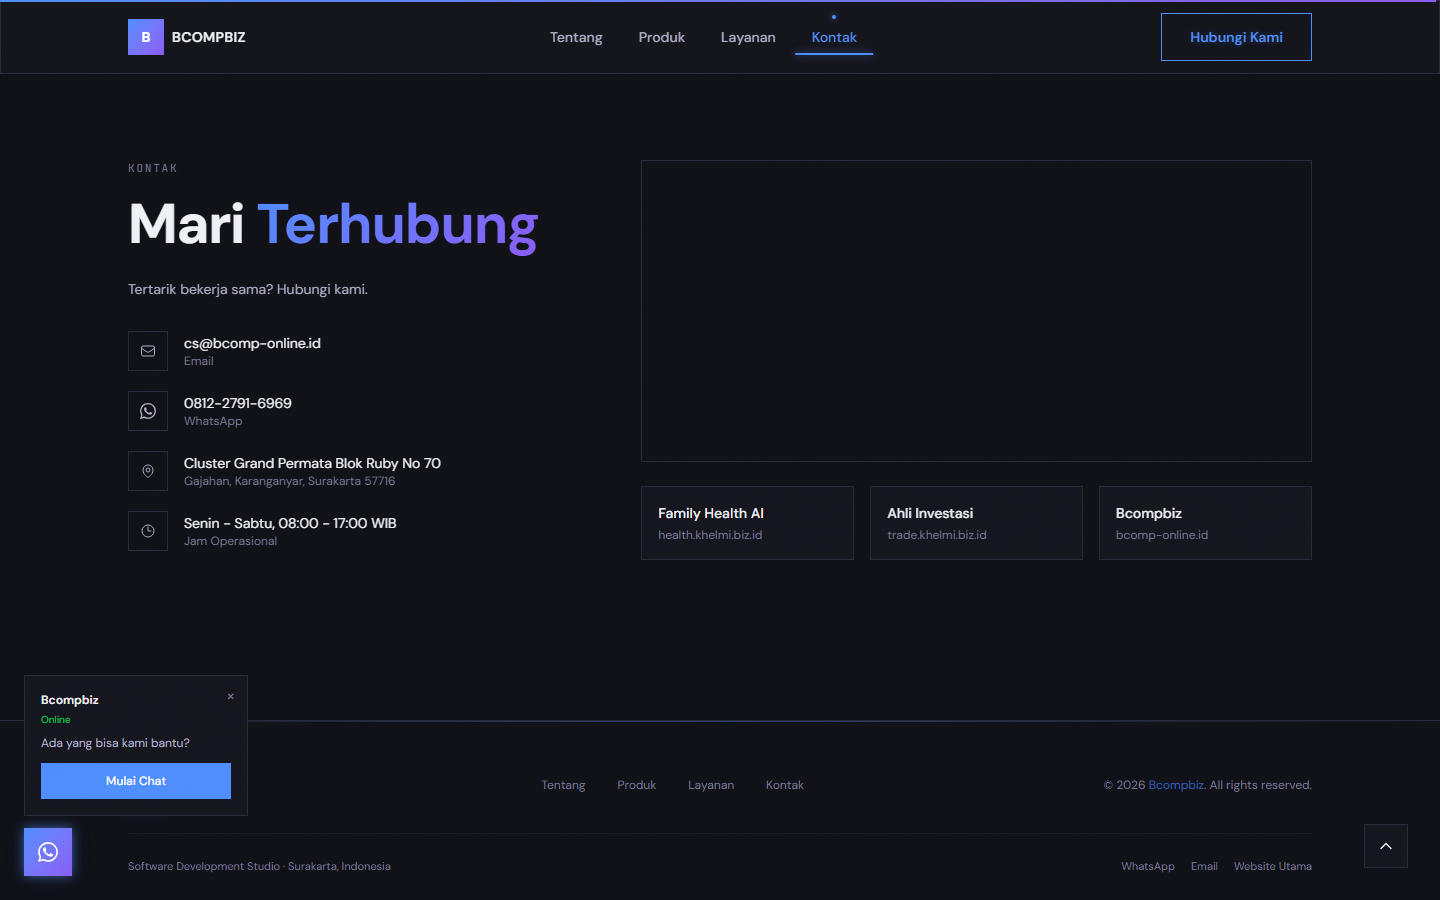
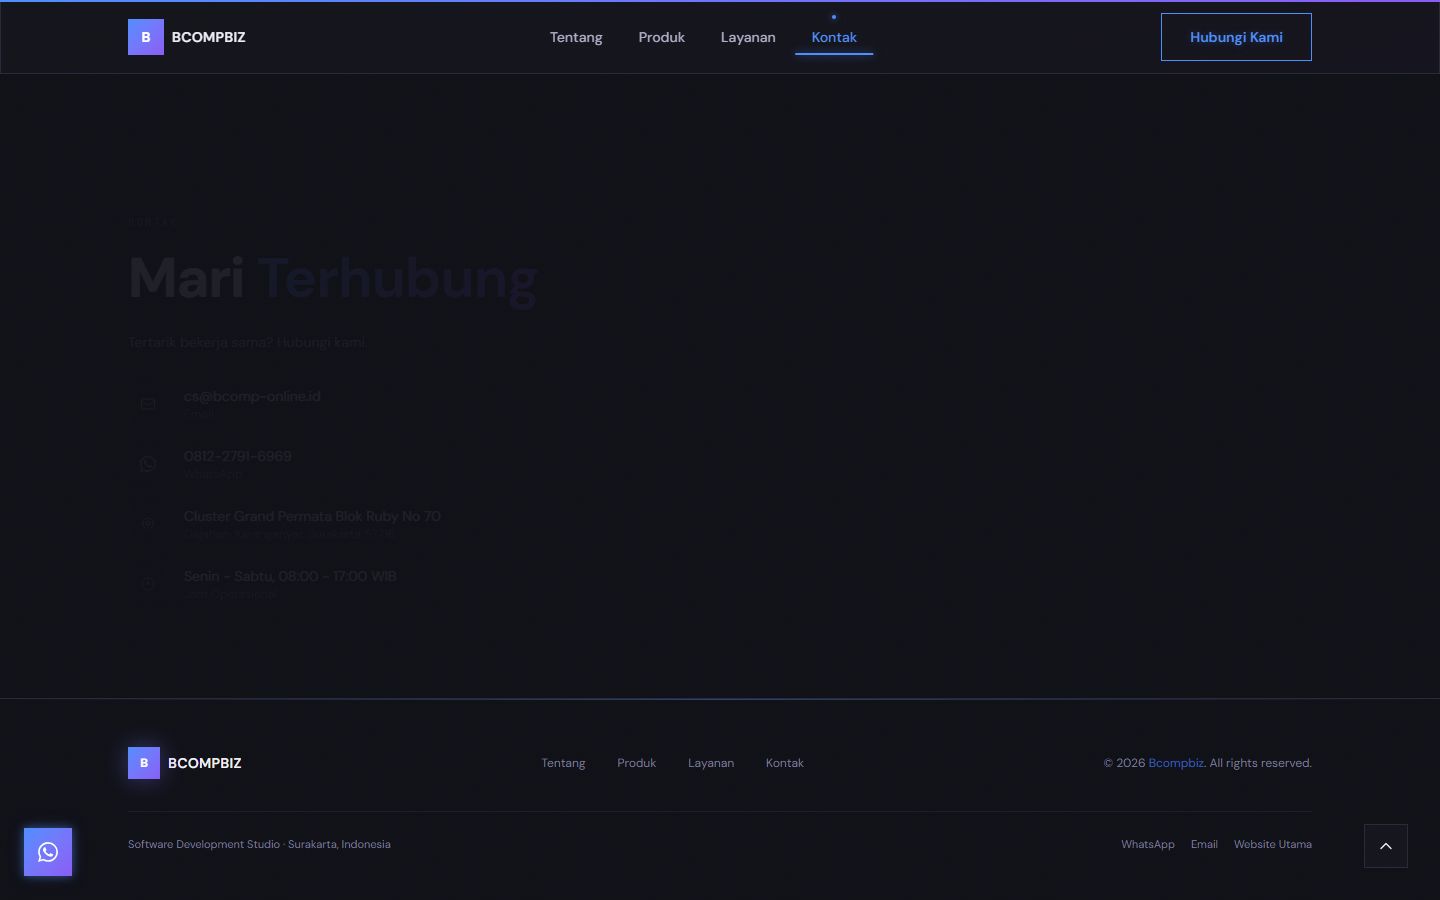
fix: animations, background visibility, services alignment
- AnimateOnScroll: fix IntersectionObserver (threshold 0.01, rootMargin -10px)
- ScrollBackground: increase opacity (15% orbs, stronger gradient bars)
- Services: fix number alignment with w-8
- Add animated gradient bars (Microsoft-style)
- Add pulsing center glow

diff --git a/src/components/ScrollBackground.tsx b/src/components/ScrollBackground.tsx
@@ -15,126 +15,109 @@ export default function ScrollBackground() {
 
   return (
     <div className="fixed inset-0 pointer-events-none z-0 overflow-hidden">
-      {/* Moving neon orbs */}
+      {/* Large neon orb 1 - moves with scroll */}
       <div
-        className="absolute w-[500px] h-[500px] rounded-full blur-[120px]"
+        className="absolute rounded-full"
         style={{
-          background: `radial-gradient(circle, rgba(79,143,255,0.12) 0%, transparent 70%)`,
-          left: `${20 + Math.sin(scrollY * 0.003) * 20}%`,
-          top: `${15 + Math.cos(scrollY * 0.002) * 15}%`,
+          width: "600px",
+          height: "600px",
+          background: "radial-gradient(circle, rgba(79,143,255,0.15) 0%, rgba(79,143,255,0.05) 40%, transparent 70%)",
+          left: `${15 + Math.sin(scrollY * 0.002) * 20}%`,
+          top: `${10 + Math.cos(scrollY * 0.003) * 15}%`,
+          filter: "blur(80px)",
           transform: `scale(${1 + Math.sin(scrollY * 0.001) * 0.3})`,
         }}
       />
+
+      {/* Large neon orb 2 */}
       <div
-        className="absolute w-[400px] h-[400px] rounded-full blur-[100px]"
+        className="absolute rounded-full"
         style={{
-          background: `radial-gradient(circle, rgba(139,92,246,0.10) 0%, transparent 70%)`,
-          right: `${10 + Math.cos(scrollY * 0.003) * 15}%`,
-          top: `${40 + Math.sin(scrollY * 0.004) * 20}%`,
-          transform: `scale(${1 + Math.cos(scrollY * 0.002) * 0.2})`,
-        }}
-      />
-      <div
-        className="absolute w-[350px] h-[350px] rounded-full blur-[80px]"
-        style={{
-          background: `radial-gradient(circle, rgba(6,214,214,0.08) 0%, transparent 70%)`,
-          left: `${50 + Math.sin(scrollY * 0.005) * 25}%`,
-          bottom: `${10 + Math.cos(scrollY * 0.003) * 15}%`,
+          width: "500px",
+          height: "500px",
+          background: "radial-gradient(circle, rgba(139,92,246,0.12) 0%, rgba(139,92,246,0.04) 40%, transparent 70%)",
+          right: `${10 + Math.cos(scrollY * 0.002) * 15}%`,
+          top: `${35 + Math.sin(scrollY * 0.004) * 20}%`,
+          filter: "blur(70px)",
+          transform: `scale(${1 + Math.cos(scrollY * 0.002) * 0.25})`,
         }}
       />
 
-      {/* Animated thunder/lightning lines */}
-      <svg className="absolute inset-0 w-full h-full" style={{ opacity: 0.08 }}>
-        <defs>
-          <linearGradient id="thunder1" x1="0%" y1="0%" x2="100%" y2="100%">
-            <stop offset="0%" stopColor="#4f8fff" stopOpacity="0" />
-            <stop offset="50%" stopColor="#4f8fff" stopOpacity="1" />
-            <stop offset="100%" stopColor="#8b5cf6" stopOpacity="0" />
-          </linearGradient>
-          <linearGradient id="thunder2" x1="100%" y1="0%" x2="0%" y2="100%">
-            <stop offset="0%" stopColor="#8b5cf6" stopOpacity="0" />
-            <stop offset="50%" stopColor="#06d6d6" stopOpacity="1" />
-            <stop offset="100%" stopColor="#4f8fff" stopOpacity="0" />
-          </linearGradient>
-          <linearGradient id="thunder3" x1="0%" y1="100%" x2="100%" y2="0%">
-            <stop offset="0%" stopColor="#06d6d6" stopOpacity="0" />
-            <stop offset="50%" stopColor="#4f8fff" stopOpacity="1" />
-            <stop offset="100%" stopColor="#8b5cf6" stopOpacity="0" />
-          </linearGradient>
-        </defs>
-        
-        {/* Thunder line 1 */}
-        <path
-          d={`M -100 ${300 + Math.sin(scrollY * 0.005) * 50} Q ${400 + Math.sin(scrollY * 0.003) * 150} ${100 + scrollY * 0.02} ${1600} ${400 + Math.cos(scrollY * 0.004) * 80}`}
-          stroke="url(#thunder1)"
-          strokeWidth="1.5"
-          fill="none"
-          style={{ transform: `translateY(${-scrollY * 0.15}px)` }}
-        />
-        
-        {/* Thunder line 2 */}
-        <path
-          d={`M 1600 ${200 + Math.cos(scrollY * 0.004) * 60} Q ${800 + Math.cos(scrollY * 0.005) * 100} ${500 + scrollY * 0.015} -100 ${600 + Math.sin(scrollY * 0.003) * 40}`}
-          stroke="url(#thunder2)"
-          strokeWidth="1"
-          fill="none"
-          style={{ transform: `translateY(${-scrollY * 0.1}px)` }}
-        />
-        
-        {/* Thunder line 3 */}
-        <path
-          d={`M -100 ${700 + Math.sin(scrollY * 0.006) * 40} Q ${600 + Math.sin(scrollY * 0.004) * 120} ${300 + scrollY * 0.025} 1600 ${800 + Math.cos(scrollY * 0.005) * 60}`}
-          stroke="url(#thunder3)"
-          strokeWidth="0.8"
-          fill="none"
-          style={{ transform: `translateY(${-scrollY * 0.12}px)` }}
-        />
-      </svg>
+      {/* Cyan orb */}
+      <div
+        className="absolute rounded-full"
+        style={{
+          width: "400px",
+          height: "400px",
+          background: "radial-gradient(circle, rgba(6,214,214,0.10) 0%, transparent 60%)",
+          left: `${45 + Math.sin(scrollY * 0.003) * 25}%`,
+          bottom: `${15 + Math.cos(scrollY * 0.002) * 10}%`,
+          filter: "blur(60px)",
+        }}
+      />
 
-      {/* Grid that shifts */}
+      {/* Animated gradient bars (Microsoft-style) */}
+      <div
+        className="absolute left-0 right-0 h-[2px]"
+        style={{
+          top: `${20 + (scrollY * 0.1) % 60}%`,
+          background: "linear-gradient(90deg, transparent 0%, rgba(79,143,255,0.4) 30%, rgba(139,92,246,0.4) 70%, transparent 100%)",
+          opacity: 0.6,
+        }}
+      />
+      <div
+        className="absolute left-0 right-0 h-[1px]"
+        style={{
+          top: `${50 + (scrollY * 0.08) % 40}%`,
+          background: "linear-gradient(90deg, transparent 0%, rgba(6,214,214,0.3) 50%, transparent 100%)",
+          opacity: 0.5,
+        }}
+      />
+      <div
+        className="absolute left-0 right-0 h-[1px]"
+        style={{
+          top: `${75 + (scrollY * 0.12) % 25}%`,
+          background: "linear-gradient(90deg, transparent 0%, rgba(139,92,246,0.3) 40%, rgba(79,143,255,0.3) 60%, transparent 100%)",
+          opacity: 0.4,
+        }}
+      />
+
+      {/* Grid pattern that shifts */}
       <div
         className="absolute inset-0"
         style={{
-          opacity: 0.03,
+          opacity: 0.04,
           backgroundImage: `
-            linear-gradient(rgba(79,143,255,0.4) 1px, transparent 1px),
-            linear-gradient(90deg, rgba(79,143,255,0.4) 1px, transparent 1px)
+            linear-gradient(rgba(79,143,255,0.5) 1px, transparent 1px),
+            linear-gradient(90deg, rgba(79,143,255,0.5) 1px, transparent 1px)
           `,
-          backgroundSize: "80px 80px",
-          transform: `translateY(${scrollY * 0.03}px)`,
+          backgroundSize: "60px 60px",
+          transform: `translateY(${scrollY * 0.02}px)`,
         }}
       />
 
-      {/* Horizontal scan line */}
+      {/* Corner glow top-left */}
       <div
-        className="absolute left-0 right-0 h-px"
+        className="absolute top-0 left-0 w-64 h-64"
         style={{
-          background: `linear-gradient(90deg, transparent, rgba(79,143,255,0.3), transparent)`,
-          top: `${(scrollY * 0.4) % vh}px`,
+          background: "radial-gradient(circle at top left, rgba(79,143,255,0.12) 0%, transparent 70%)",
         }}
       />
 
-      {/* Diagonal accent line */}
+      {/* Corner glow bottom-right */}
       <div
-        className="absolute w-full h-px"
+        className="absolute bottom-0 right-0 w-64 h-64"
         style={{
-          background: `linear-gradient(90deg, transparent, rgba(139,92,246,0.15), transparent)`,
-          top: `${((scrollY * 0.3) + vh * 0.5) % vh}px`,
-          transform: `rotate(-3deg)`,
+          background: "radial-gradient(circle at bottom right, rgba(139,92,246,0.12) 0%, transparent 70%)",
         }}
       />
 
-      {/* Corner glows */}
+      {/* Pulsing center glow */}
       <div
-        className="absolute top-0 left-0 w-48 h-48"
+        className="absolute top-1/2 left-1/2 -translate-x-1/2 -translate-y-1/2 w-[800px] h-[800px] rounded-full"
         style={{
-          background: `radial-gradient(circle at top left, rgba(79,143,255,${0.08 + Math.sin(scrollY * 0.003) * 0.04}) 0%, transparent 70%)`,
-        }}
-      />
-      <div
-        className="absolute bottom-0 right-0 w-48 h-48"
-        style={{
-          background: `radial-gradient(circle at bottom right, rgba(139,92,246,${0.08 + Math.cos(scrollY * 0.003) * 0.04}) 0%, transparent 70%)`,
+          background: "radial-gradient(circle, rgba(79,143,255,0.04) 0%, transparent 50%)",
+          transform: `translate(-50%, -50%) scale(${1 + Math.sin(scrollY * 0.002) * 0.1})`,
         }}
       />
     </div>

diff --git a/audit-detail.js b/audit-detail.js
@@ -1,0 +1,86 @@
+const { chromium } = require('playwright');
+
+(async () => {
+  const browser = await chromium.launch({ headless: true });
+  const page = await browser.newPage({ viewport: { width: 1440, height: 900 } });
+  
+  await page.goto('https://khelmi.biz.id', { waitUntil: 'networkidle' });
+  await page.waitForTimeout(3000);
+  
+  // Check Services section alignment
+  const services = await page.evaluate(() => {
+    const section = document.getElementById('layanan');
+    if (!section) return null;
+    const items = section.querySelectorAll('.group');
+    return Array.from(items).map((item, i) => {
+      const rect = item.getBoundingClientRect();
+      const num = item.querySelector('.font-mono');
+      const title = item.querySelector('h3');
+      return {
+        index: i,
+        left: rect.left,
+        numLeft: num?.getBoundingClientRect().left,
+        titleLeft: title?.getBoundingClientRect().left,
+        width: rect.width,
+      };
+    });
+  });
+  console.log('=== SERVICES ALIGNMENT ===');
+  console.log(JSON.stringify(services, null, 2));
+  
+  // Check if ScrollBackground is rendering
+  const bgCheck = await page.evaluate(() => {
+    const bg = document.querySelector('.fixed.inset-0.pointer-events-none');
+    if (!bg) return { exists: false };
+    const children = bg.children;
+    return {
+      exists: true,
+      childCount: children.length,
+      firstChildTag: children[0]?.tagName,
+      firstChildStyle: children[0]?.getAttribute('style')?.slice(0, 100),
+    };
+  });
+  console.log('\n=== SCROLL BACKGROUND ===');
+  console.log(JSON.stringify(bgCheck, null, 2));
+  
+  // Check AnimateOnScroll elements
+  const animElements = await page.evaluate(() => {
+    const els = document.querySelectorAll('[style*="opacity: 0"]');
+    return {
+      count: els.length,
+      samples: Array.from(els).slice(0, 3).map(el => ({
+        tag: el.tagName,
+        style: el.getAttribute('style')?.slice(0, 150),
+        className: el.className?.slice(0, 50),
+      })),
+    };
+  });
+  console.log('\n=== ANIMATE ON SCROLL ===');
+  console.log(JSON.stringify(animElements, null, 2));
+  
+  // Scroll and check if elements become visible
+  await page.evaluate(() => window.scrollTo(0, 800));
+  await page.waitForTimeout(1500);
+  
+  const afterScroll = await page.evaluate(() => {
+    const els = document.querySelectorAll('[style*="opacity: 0"]');
+    return els.length;
+  });
+  console.log(`\nAfter scroll - elements still opacity:0: ${afterScroll}`);
+  
+  // Take screenshots
+  await page.goto('https://khelmi.biz.id', { waitUntil: 'networkidle' });
+  await page.waitForTimeout(2000);
+  await page.screenshot({ path: 'audit-layanan-1.png' });
+  
+  await page.evaluate(() => document.getElementById('layanan')?.scrollIntoView());
+  await page.waitForTimeout(1500);
+  await page.screenshot({ path: 'audit-layanan-2.png' });
+  
+  await page.evaluate(() => document.getElementById('produk')?.scrollIntoView());
+  await page.waitForTimeout(1500);
+  await page.screenshot({ path: 'audit-produk-2.png' });
+  
+  console.log('\nScreenshots saved!');
+  await browser.close();
+})();

diff --git a/src/components/AnimateOnScroll.tsx b/src/components/AnimateOnScroll.tsx
@@ -6,14 +6,12 @@ interface AnimateOnScrollProps {
   children: ReactNode;
   className?: string;
   delay?: number;
-  direction?: "up" | "down" | "left" | "right" | "none";
 }
 
 export default function AnimateOnScroll({
   children,
   className = "",
   delay = 0,
-  direction = "up",
 }: AnimateOnScrollProps) {
   const ref = useRef<HTMLDivElement>(null);
 
@@ -21,39 +19,37 @@ export default function AnimateOnScroll({
     const el = ref.current;
     if (!el) return;
 
-    const getTransform = () => {
-      switch (direction) {
-        case "up": return "translateY(30px)";
-        case "down": return "translateY(-30px)";
-        case "left": return "translateX(-30px)";
-        case "right": return "translateX(30px)";
-        case "none": return "none";
-      }
-    };
-
-    el.style.opacity = "0";
-    el.style.transform = getTransform();
-    el.style.transition = `opacity 0.6s ease ${delay}ms, transform 0.6s ease ${delay}ms`;
-
     const observer = new IntersectionObserver(
       (entries) => {
         entries.forEach((entry) => {
           if (entry.isIntersecting) {
             setTimeout(() => {
-              entry.target.classList.add("visible");
+              entry.target.setAttribute("data-visible", "true");
               (entry.target as HTMLElement).style.opacity = "1";
-              (entry.target as HTMLElement).style.transform = "none";
+              (entry.target as HTMLElement).style.transform = "translateY(0)";
             }, delay);
             observer.unobserve(entry.target);
           }
         });
       },
-      { threshold: 0.05, rootMargin: "0px 0px -40px 0px" }
+      { threshold: 0.01, rootMargin: "0px 0px -10px 0px" }
     );
 
     observer.observe(el);
     return () => observer.disconnect();
-  }, [delay, direction]);
+  }, [delay]);
 
-  return <div ref={ref} className={className}>{children}</div>;
+  return (
+    <div
+      ref={ref}
+      className={className}
+      style={{
+        opacity: 0,
+        transform: "translateY(30px)",
+        transition: `opacity 0.8s ease ${delay}ms, transform 0.8s ease ${delay}ms`,
+      }}
+    >
+      {children}
+    </div>
+  );
 }

diff --git a/src/components/Services.tsx b/src/components/Services.tsx
@@ -31,7 +31,7 @@ export default function Services() {
           {services.map((s, i) => (
             <AnimateOnScroll key={s.num} delay={i * 80}>
               <div className="py-6 md:py-8 border-b border-border sm:border-r sm:last:border-r-0 sm:[&:nth-child(2n)]:border-r-0 lg:[&:nth-child(2n)]:border-r lg:[&:nth-child(3n)]:border-r-0 px-0 sm:px-6 lg:px-8 group">
-                <span className="font-mono text-sm text-accent block mb-3">{s.num}</span>
+                <span className="font-mono text-sm text-accent block mb-3 w-8">{s.num}</span>
                 <h3 className="text-lg font-semibold text-text mb-2 group-hover:text-accent transition-colors">{s.title}</h3>
                 <p className="text-text-secondary text-sm leading-relaxed">{s.desc}</p>
               </div>
